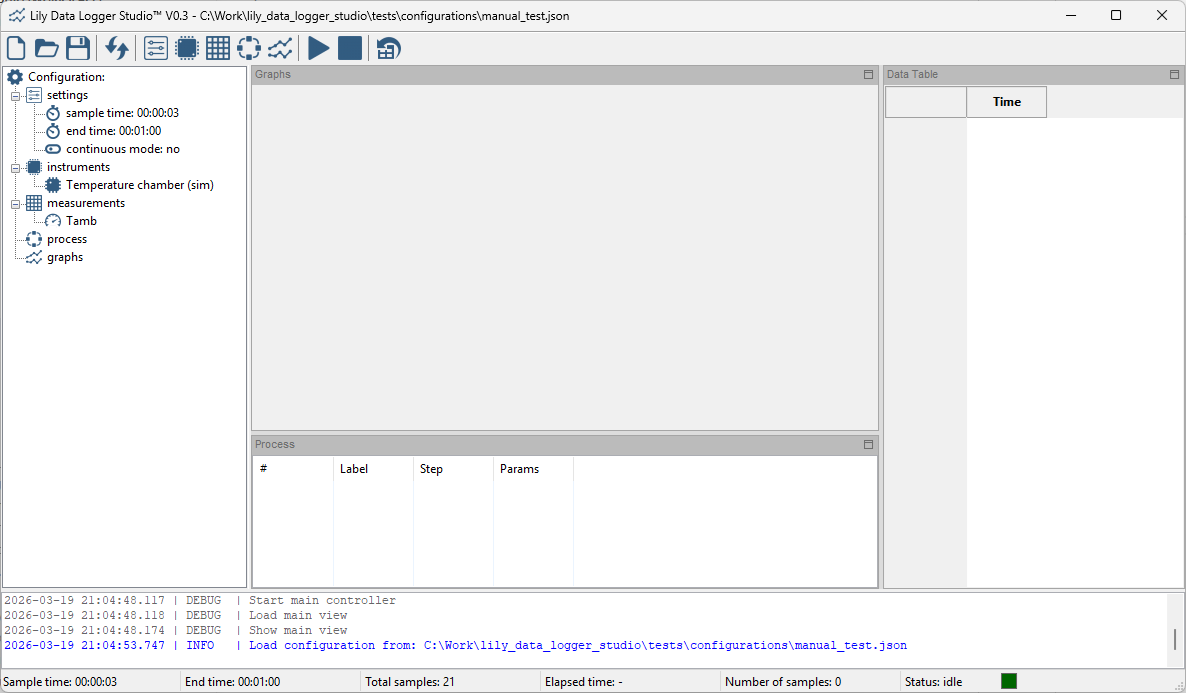
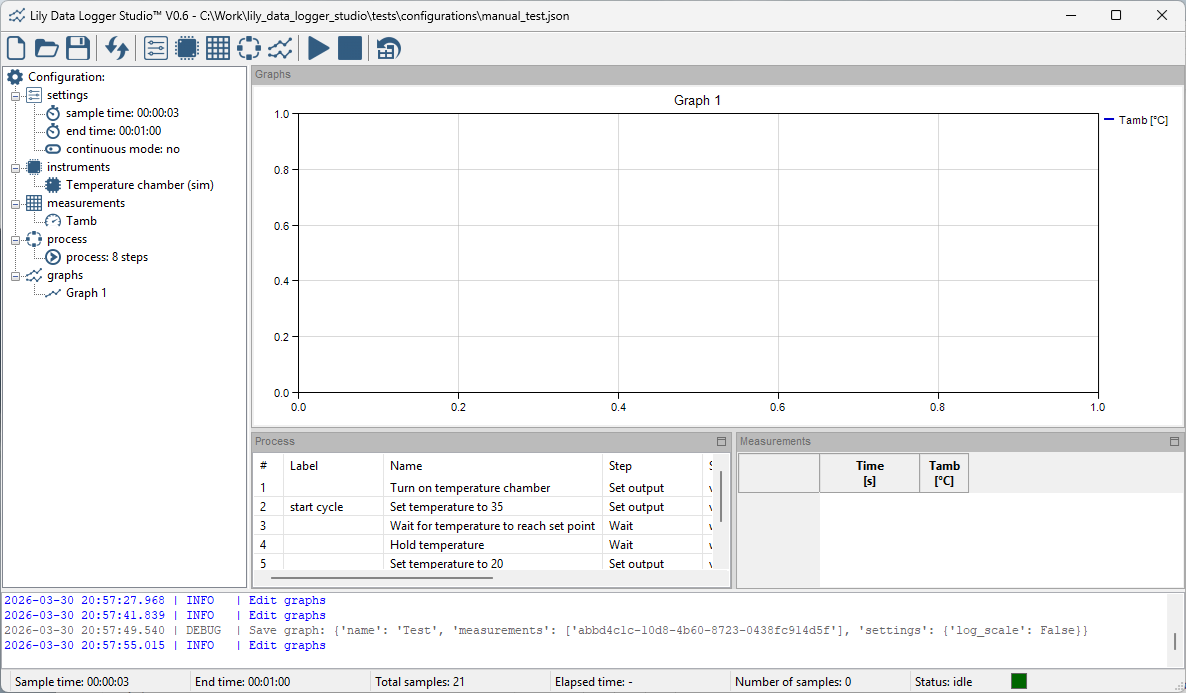
update to version 0.6

diff --git a/src/app_data.py b/src/app_data.py
@@ -9,7 +9,7 @@ from src.models.os_specifics import get_user_data_dir
 
 
 APP_NAME = "Lily Data Logger Studio\u2122"   # \u2122 is the trademark symbol
-VERSION = "0.5"
+VERSION = "0.6"
 EXE_NAME = "LilyDataLoggerStudio"
 COMPANY = "LilyTronics"
 

diff --git a/readme.md b/readme.md
@@ -22,10 +22,9 @@ Release 1.0:
 * Edit measurements ✅
 * Start/stop data logger, runs measurements and process steps ✅
 * Edit process steps for controlling instruments ✅
-* Edit graphs in the configuration
+* Edit graphs in the configuration ✅
 * Show measurements in the data table
 * Show measurements in graphs
-* Write mearurement to a CSV file
 * Show live updates of the process
 * User manual for data logger and for creating drivers
 
